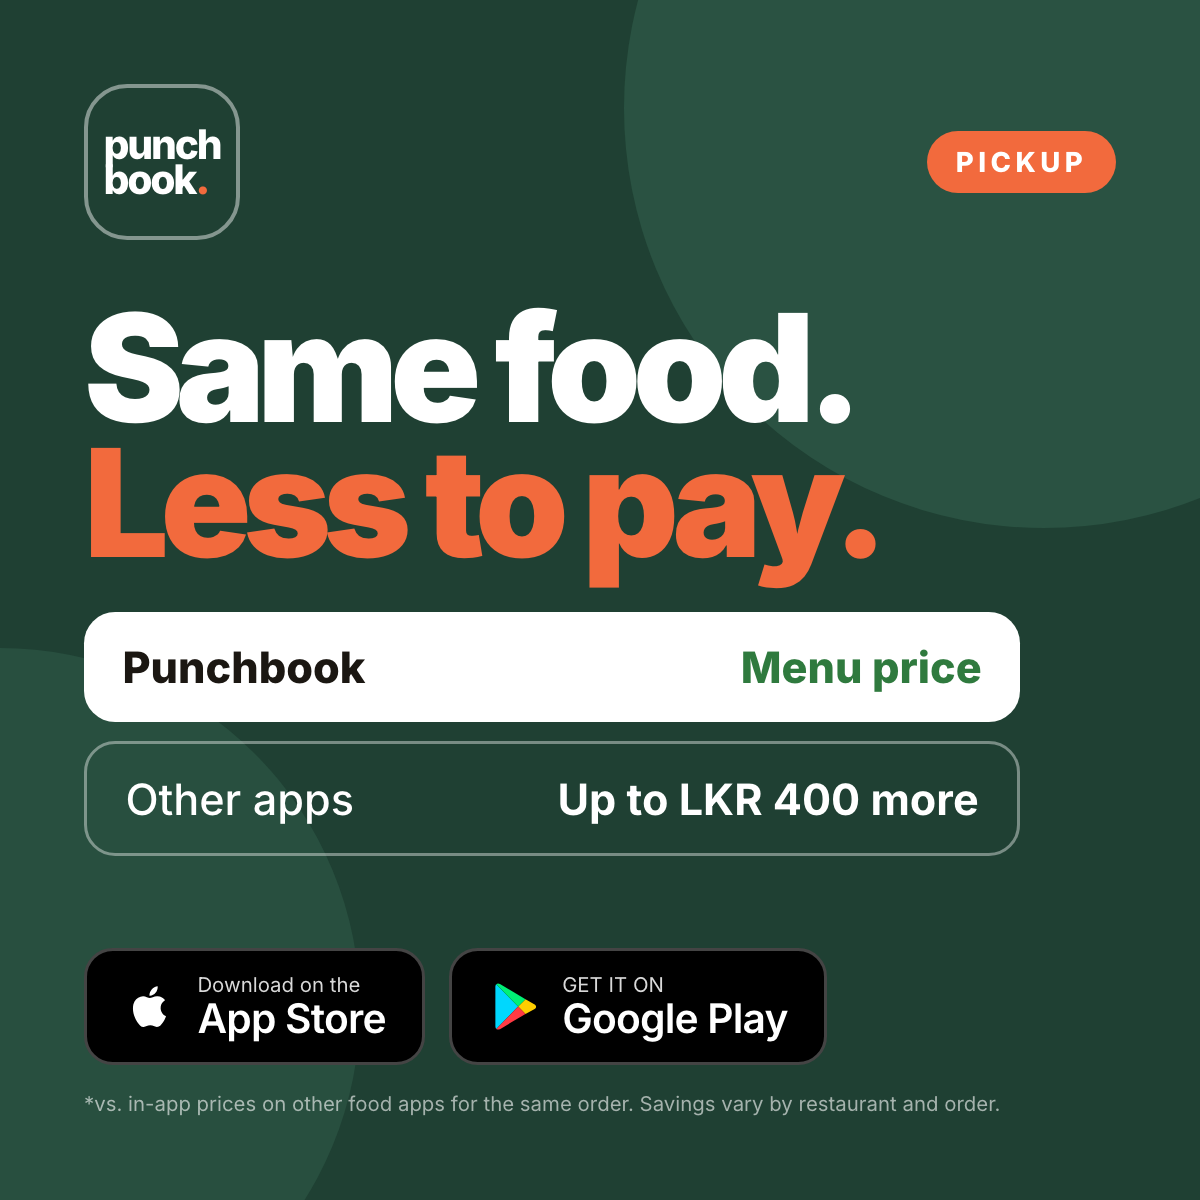
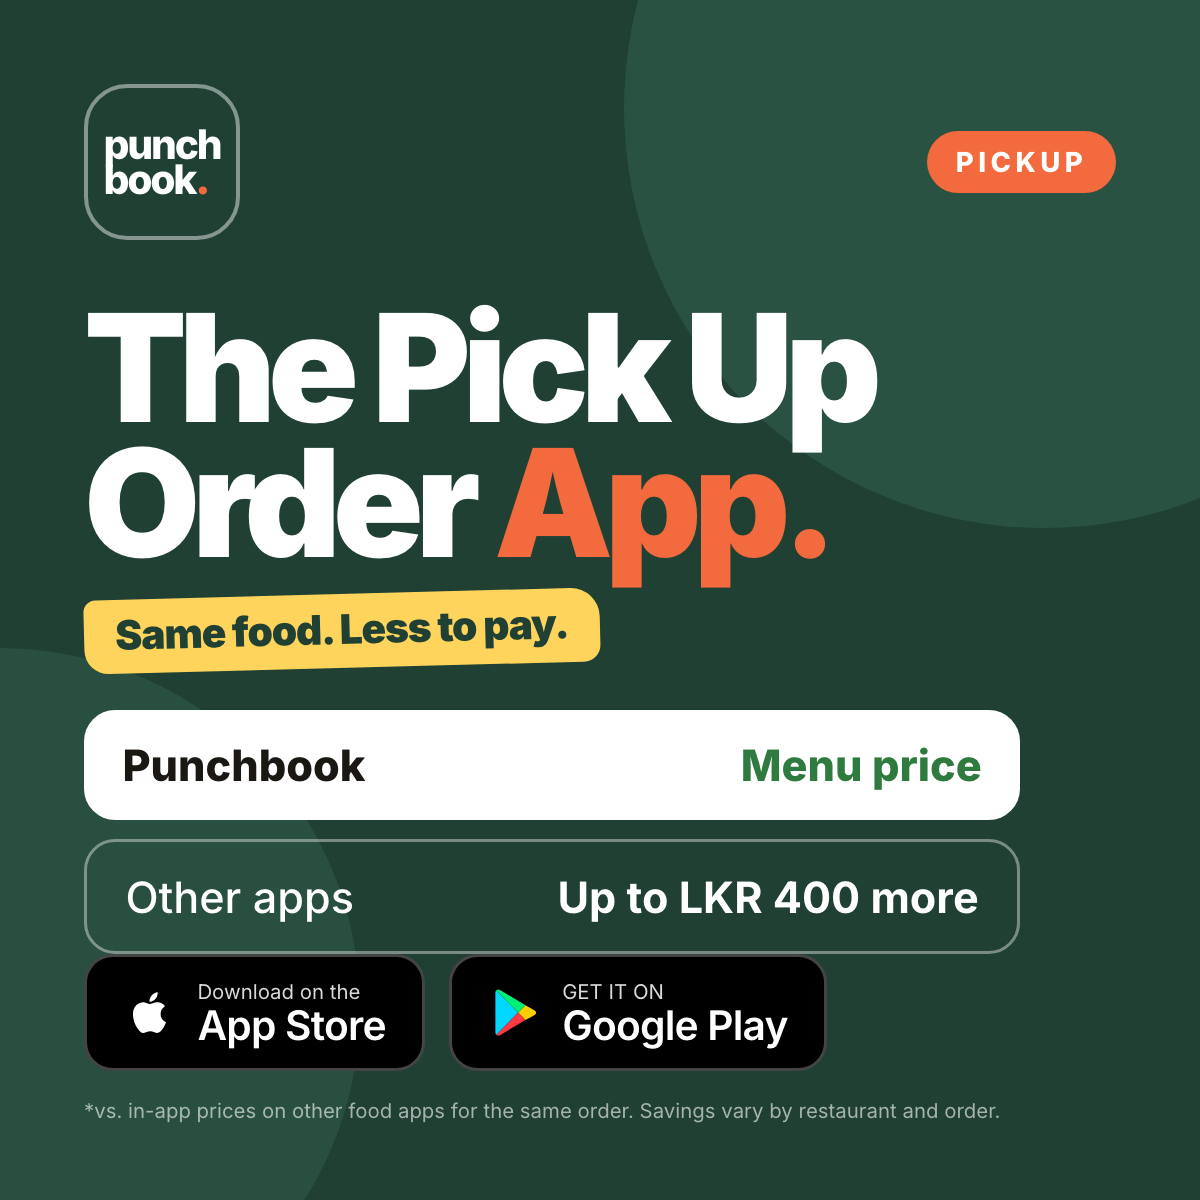
Ads: The Pick Up Order App headline on all, benefit as subhead

Changed region(s): [[0.0617, 0.2467, 0.8633, 0.9558]]

diff --git a/marketing/ads/src/ad.html b/marketing/ads/src/ad.html
@@ -87,8 +87,7 @@ h1 em{font-style:normal;color:var(--orange)}
 .call .bub.r:after{left:auto;right:1.6vmin}
 .call .bub.red{background:#ffe1dc;color:#b42318}.call .bub.red:after{border-top-color:#ffe1dc}
 .scene-feed h1{font-size:11vmin}
-.c4 h1{font-size:8.6vmin}
-.sq.scene-feed h1{font-size:8vmin;margin-top:3vmin}.sq .sub{font-size:3.4vmin;margin-top:2vmin}.portrait.c5 h1{font-size:9.6vmin}.portrait.c5 .sub{font-size:3.8vmin;margin-top:2.6vmin}.portrait .call{zoom:.84}
+.sq.scene-feed h1{font-size:8vmin;margin-top:3vmin}.sq .sub{font-size:3.4vmin;margin-top:2vmin}.portrait.c5 .sub{font-size:3.8vmin;margin-top:2.6vmin}.portrait .call{zoom:.84}
 .sq .scene{zoom:.7}.sq .call{zoom:.6}
 .cscr>*{flex:none}
 .counter:before{top:-13vmin!important}
@@ -123,10 +122,10 @@ const queue=`<div class="scene"><svg class="arc" viewBox="0 0 100 20" preserveAs
 const call=`<div class="call"><div class="cphone"><div class="cscr"><div class="av">AL</div><div class="cn">Amra Leaf</div><div class="cs">calling…</div><div class="hold">On hold 12:47</div><div class="notes">♪ ♫ ♪</div><div class="cbtns"><i></i><i></i><i class="end"></i></div></div></div><span class="bub" style="left:0;top:4vmin">Sorry, can you repeat that?</span><span class="bub red r" style="right:0;top:13vmin">Line busy</span><span class="bub" style="left:3vmin;top:27vmin">One kottu or two?</span><span class="bub red r" style="right:2vmin;top:28vmin">📞 Missed call ×3</span><div class="notif"><div class="ni"><span>punch<br>book<b>.</b></span></div><div><small>PUNCHBOOK · NOW</small><strong>Your Mix Kottu is <em>ready for pickup.</em></strong></div></div></div>`;
 const C={
  '1':{h:`The Pick Up<br>Order <em>App.</em>`,body:`<p class="sub"><span class="hl">At restaurant prices.</span></p><p class="save">Save up to LKR 400<br>every order<sup>*</sup></p>`,side:phone,fine:1},
- '2':{h:`Same food.<br><em>Less to pay.</em>`,body:`<div class="cmp"><div class="us">Punchbook <span>Menu price</span></div><div class="them">Other apps <span>Up to LKR 400 more</span></div></div>`,side:phone,fine:1},
- '3':{h:`Walk in.<br>Walk <em>out.</em>`,body:`<p class="sub">Order ahead. Show your code.<br>Grab your food and go.</p>`,side:ticket,fine:0},
- '4':{h:`Your food’s ready.<br>The line <em>isn’t.</em>`,body:`<p class="sub">Order food ahead in the app.<br>Walk straight to the pickup counter.</p>`,side:queue,fine:0,scene:1},
- '5':{h:`Still calling to<br><em>order food?</em>`,body:`<p class="sub">Order in the app at the menu price.<br>Pick it up when it’s ready.</p>`,side:call,fine:0,scene:1},
+ '2':{h:`The Pick Up<br>Order <em>App.</em>`,body:`<p class="sub"><span class="hl">Same food. Less to pay.</span></p><div class="cmp"><div class="us">Punchbook <span>Menu price</span></div><div class="them">Other apps <span>Up to LKR 400 more</span></div></div>`,side:phone,fine:1},
+ '3':{h:`The Pick Up<br>Order <em>App.</em>`,body:`<p class="sub"><span class="hl">Walk in. Walk out.</span></p><p class="sub">Order ahead. Show your code.<br>Grab your food and go.</p>`,side:ticket,fine:0},
+ '4':{h:`The Pick Up<br>Order <em>App.</em>`,body:`<p class="sub"><span class="hl">Skip the queue.</span></p><p class="sub">Your food’s ready when you walk in.</p>`,side:queue,fine:0,scene:1},
+ '5':{h:`The Pick Up<br>Order <em>App.</em>`,body:`<p class="sub"><span class="hl">No more calling to order.</span></p><p class="sub">Order in the app at the menu price.</p>`,side:call,fine:0,scene:1},
 };
 const d=C[c];let html;
 if(land){html=`<div class="col">${head}<h1>${d.h}</h1>${d.body}<div class="spacer"></div>${stores}${d.fine?fine:''}</div><div class="side">${d.side}</div>`}

diff --git a/marketing/ads/ad-copy.md b/marketing/ads/ad-copy.md
@@ -1,6 +1,6 @@
 # Punchbook ads: copy
 
-Images are in `instagram/` and `google/`. Source: `src/ad.html` (open in Chrome with `?c=1`, `?c=2` or `?c=3`; size the window to the ad size).
+Images are in `instagram/` and `google/`. Every image uses the headline “The Pick Up Order App.” with a yellow subhead for one benefit. Source: `src/ad.html` (open in Chrome with `?c=1`, `?c=2` or `?c=3`; size the window to the ad size).
 
 Final URL for every ad: https://punchbook.online
 
@@ -37,8 +37,8 @@ Short headlines (30 max)
 - The Pick Up Order App
 - Same Food. Less to Pay.
 - Walk In. Walk Out.
-- Your Food’s Ready
-- Still Calling to Order Food?
+- Skip the Queue
+- No More Calling to Order
 
 Long headline (90 max)
 - Order ahead and pick up at the counter, at restaurant prices. Save up to LKR 400 an order.
@@ -58,22 +58,22 @@ Caption 1 (with feed-1, The Pick Up Order App)
 > Other food apps add up to LKR 400 to every order. Punchbook doesn't.
 > Free on the App Store and Google Play. Link in bio.
 
-Caption 2 (with feed-2, Same food. Less to pay.)
+Caption 2 (with feed-2, subhead: Same food. Less to pay.)
 > Same food. Same restaurant. Up to LKR 400 less. 🍛
 > Order on Punchbook and pay the menu price, not an app price.
 > Now live at Amra Leaf, Negombo.
 
-Caption 3 (with feed-3, Walk in. Walk out.)
+Caption 3 (with feed-3, subhead: Walk in. Walk out.)
 > Order ahead, walk in, show your code, walk out. ⏱
 > Your food's waiting for you, not the other way round. No queue.
 > Get Punchbook free. Link in bio.
 
-Caption 4 (with feed-4, Your food’s ready. The line isn’t.)
+Caption 4 (with feed-4, subhead: Skip the queue.)
 > Your kottu’s ready. The queue can wait. 🥡
 > Order ahead on Punchbook and walk straight to the pickup counter.
 > At restaurant prices. Free on iPhone and Android.
 
-Caption 5 (with feed-5, Still calling to order food?)
+Caption 5 (with feed-5, subhead: No more calling to order.)
 > No hold music. No “can you repeat that?” 📞
 > Order your food in the Punchbook app at the menu price, and pick it up when it’s ready.
 > Get the app free. Link in bio.
